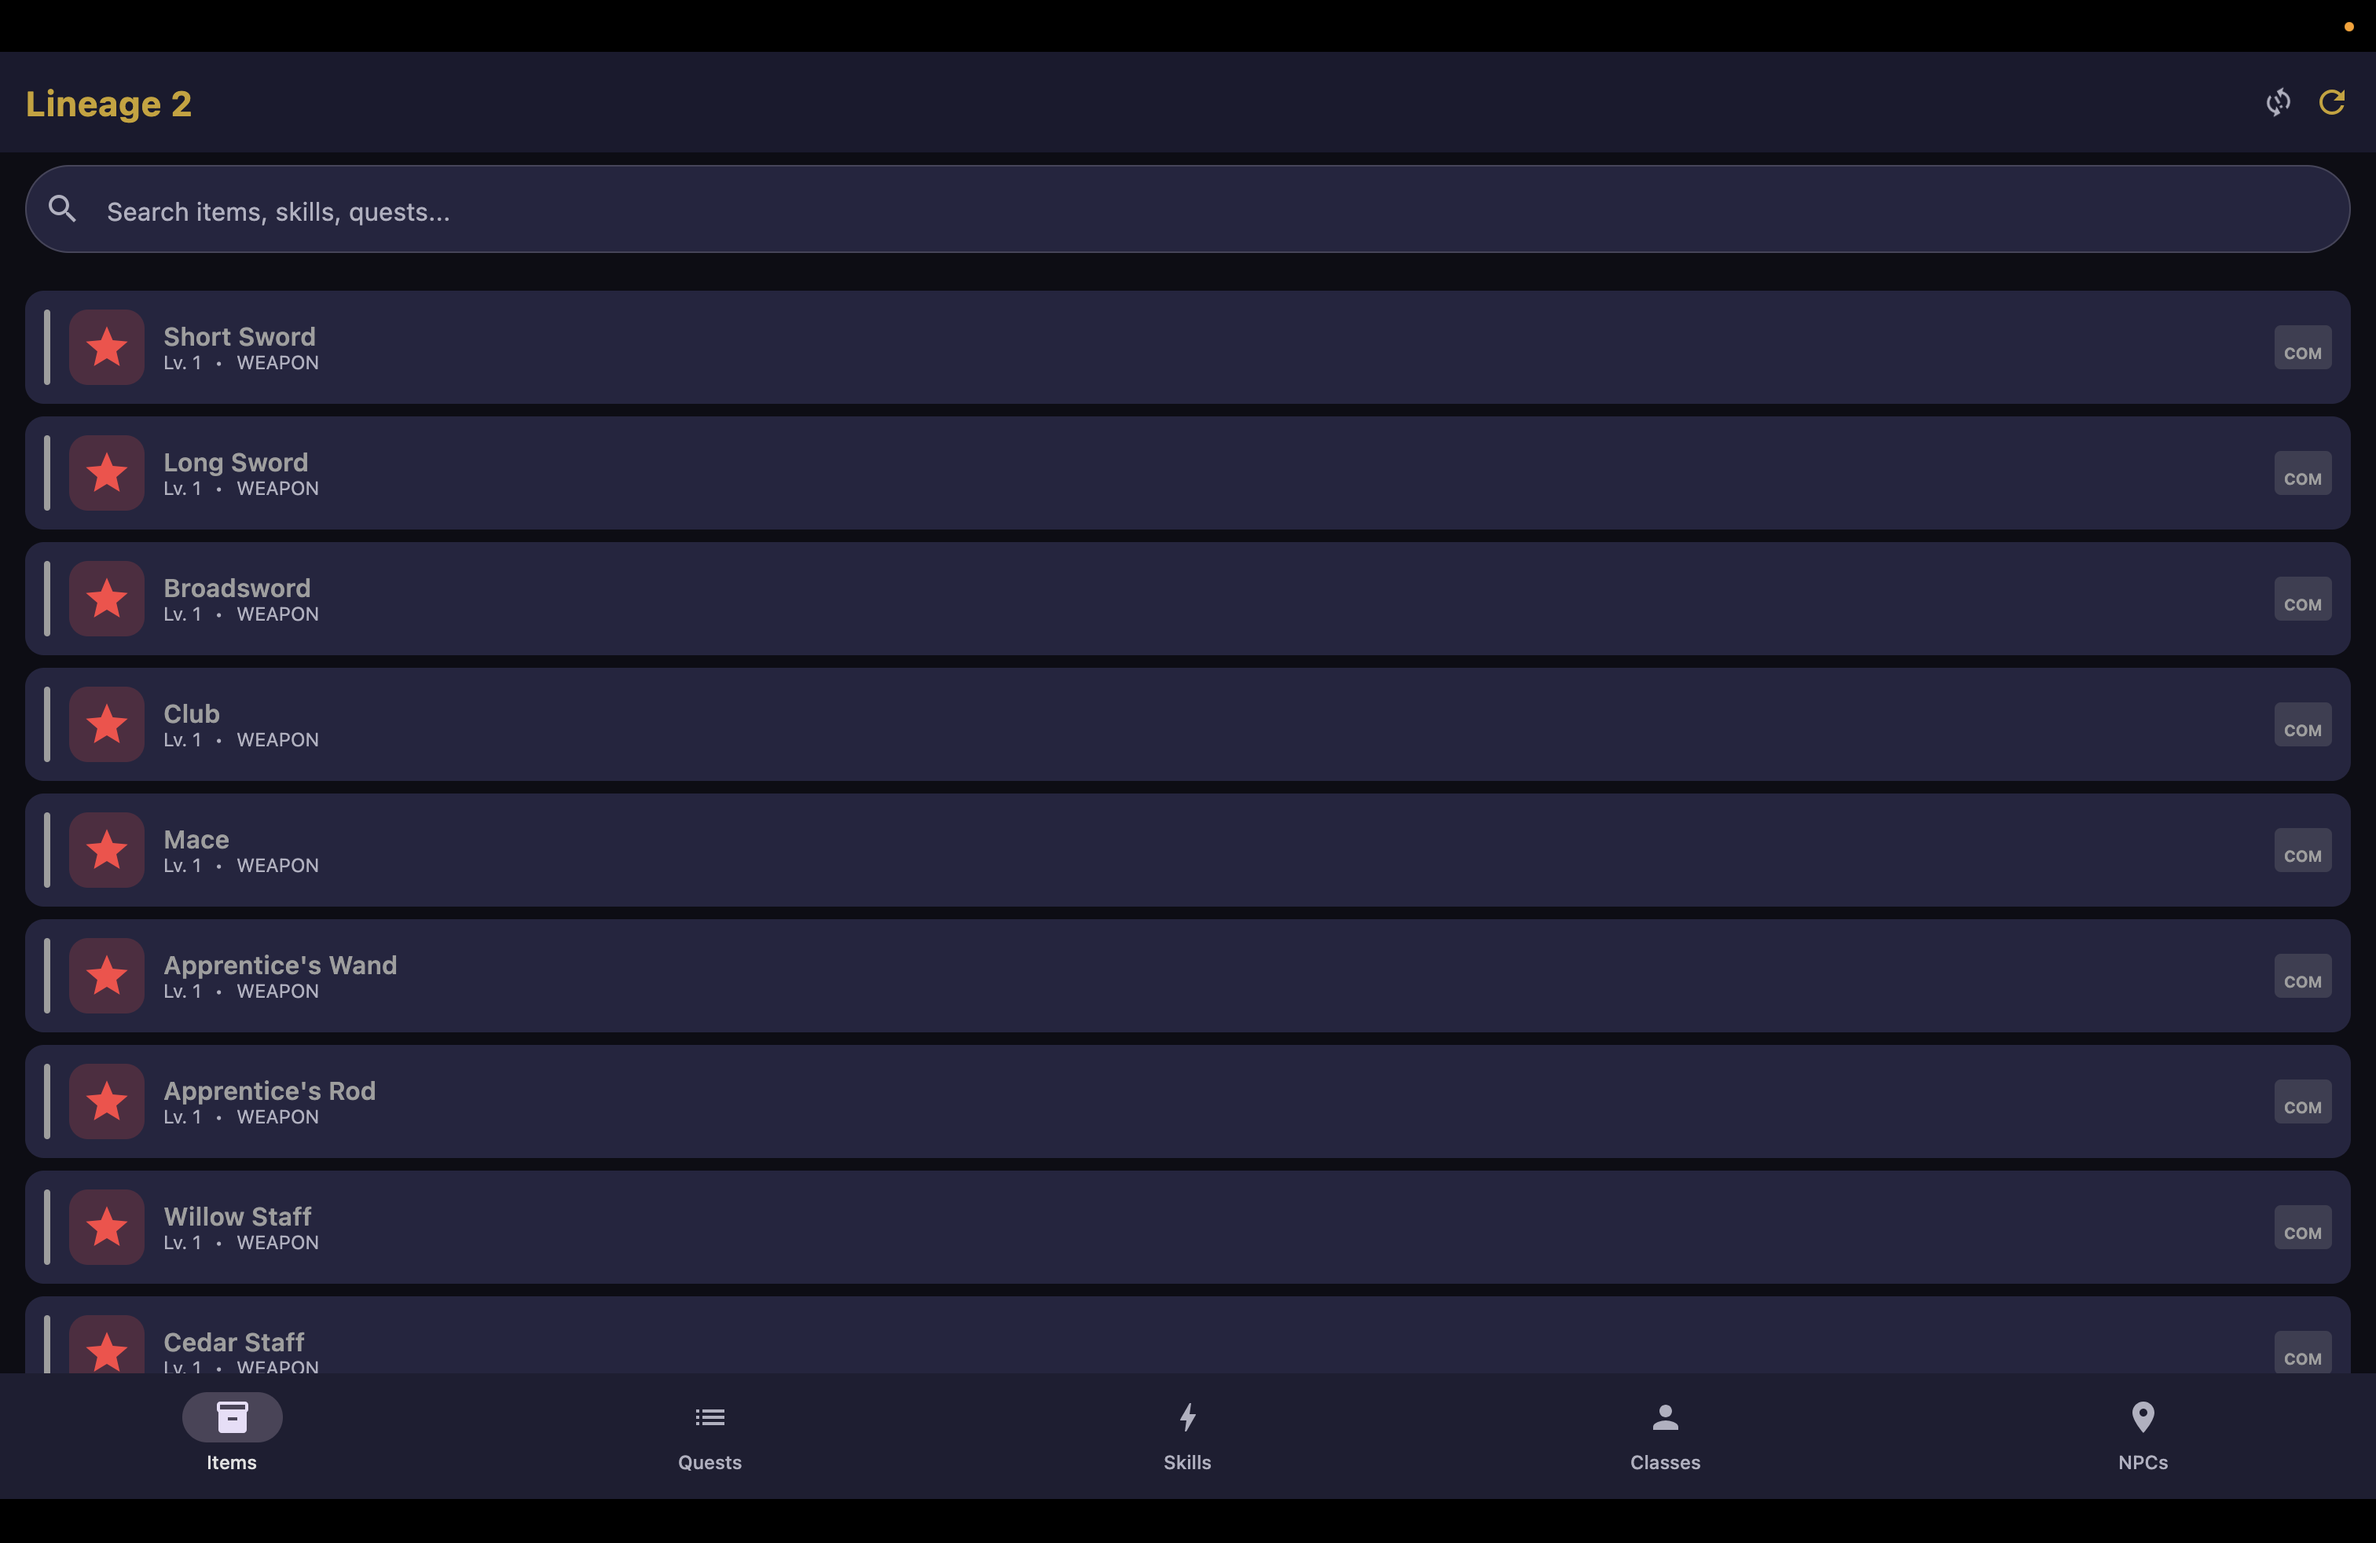
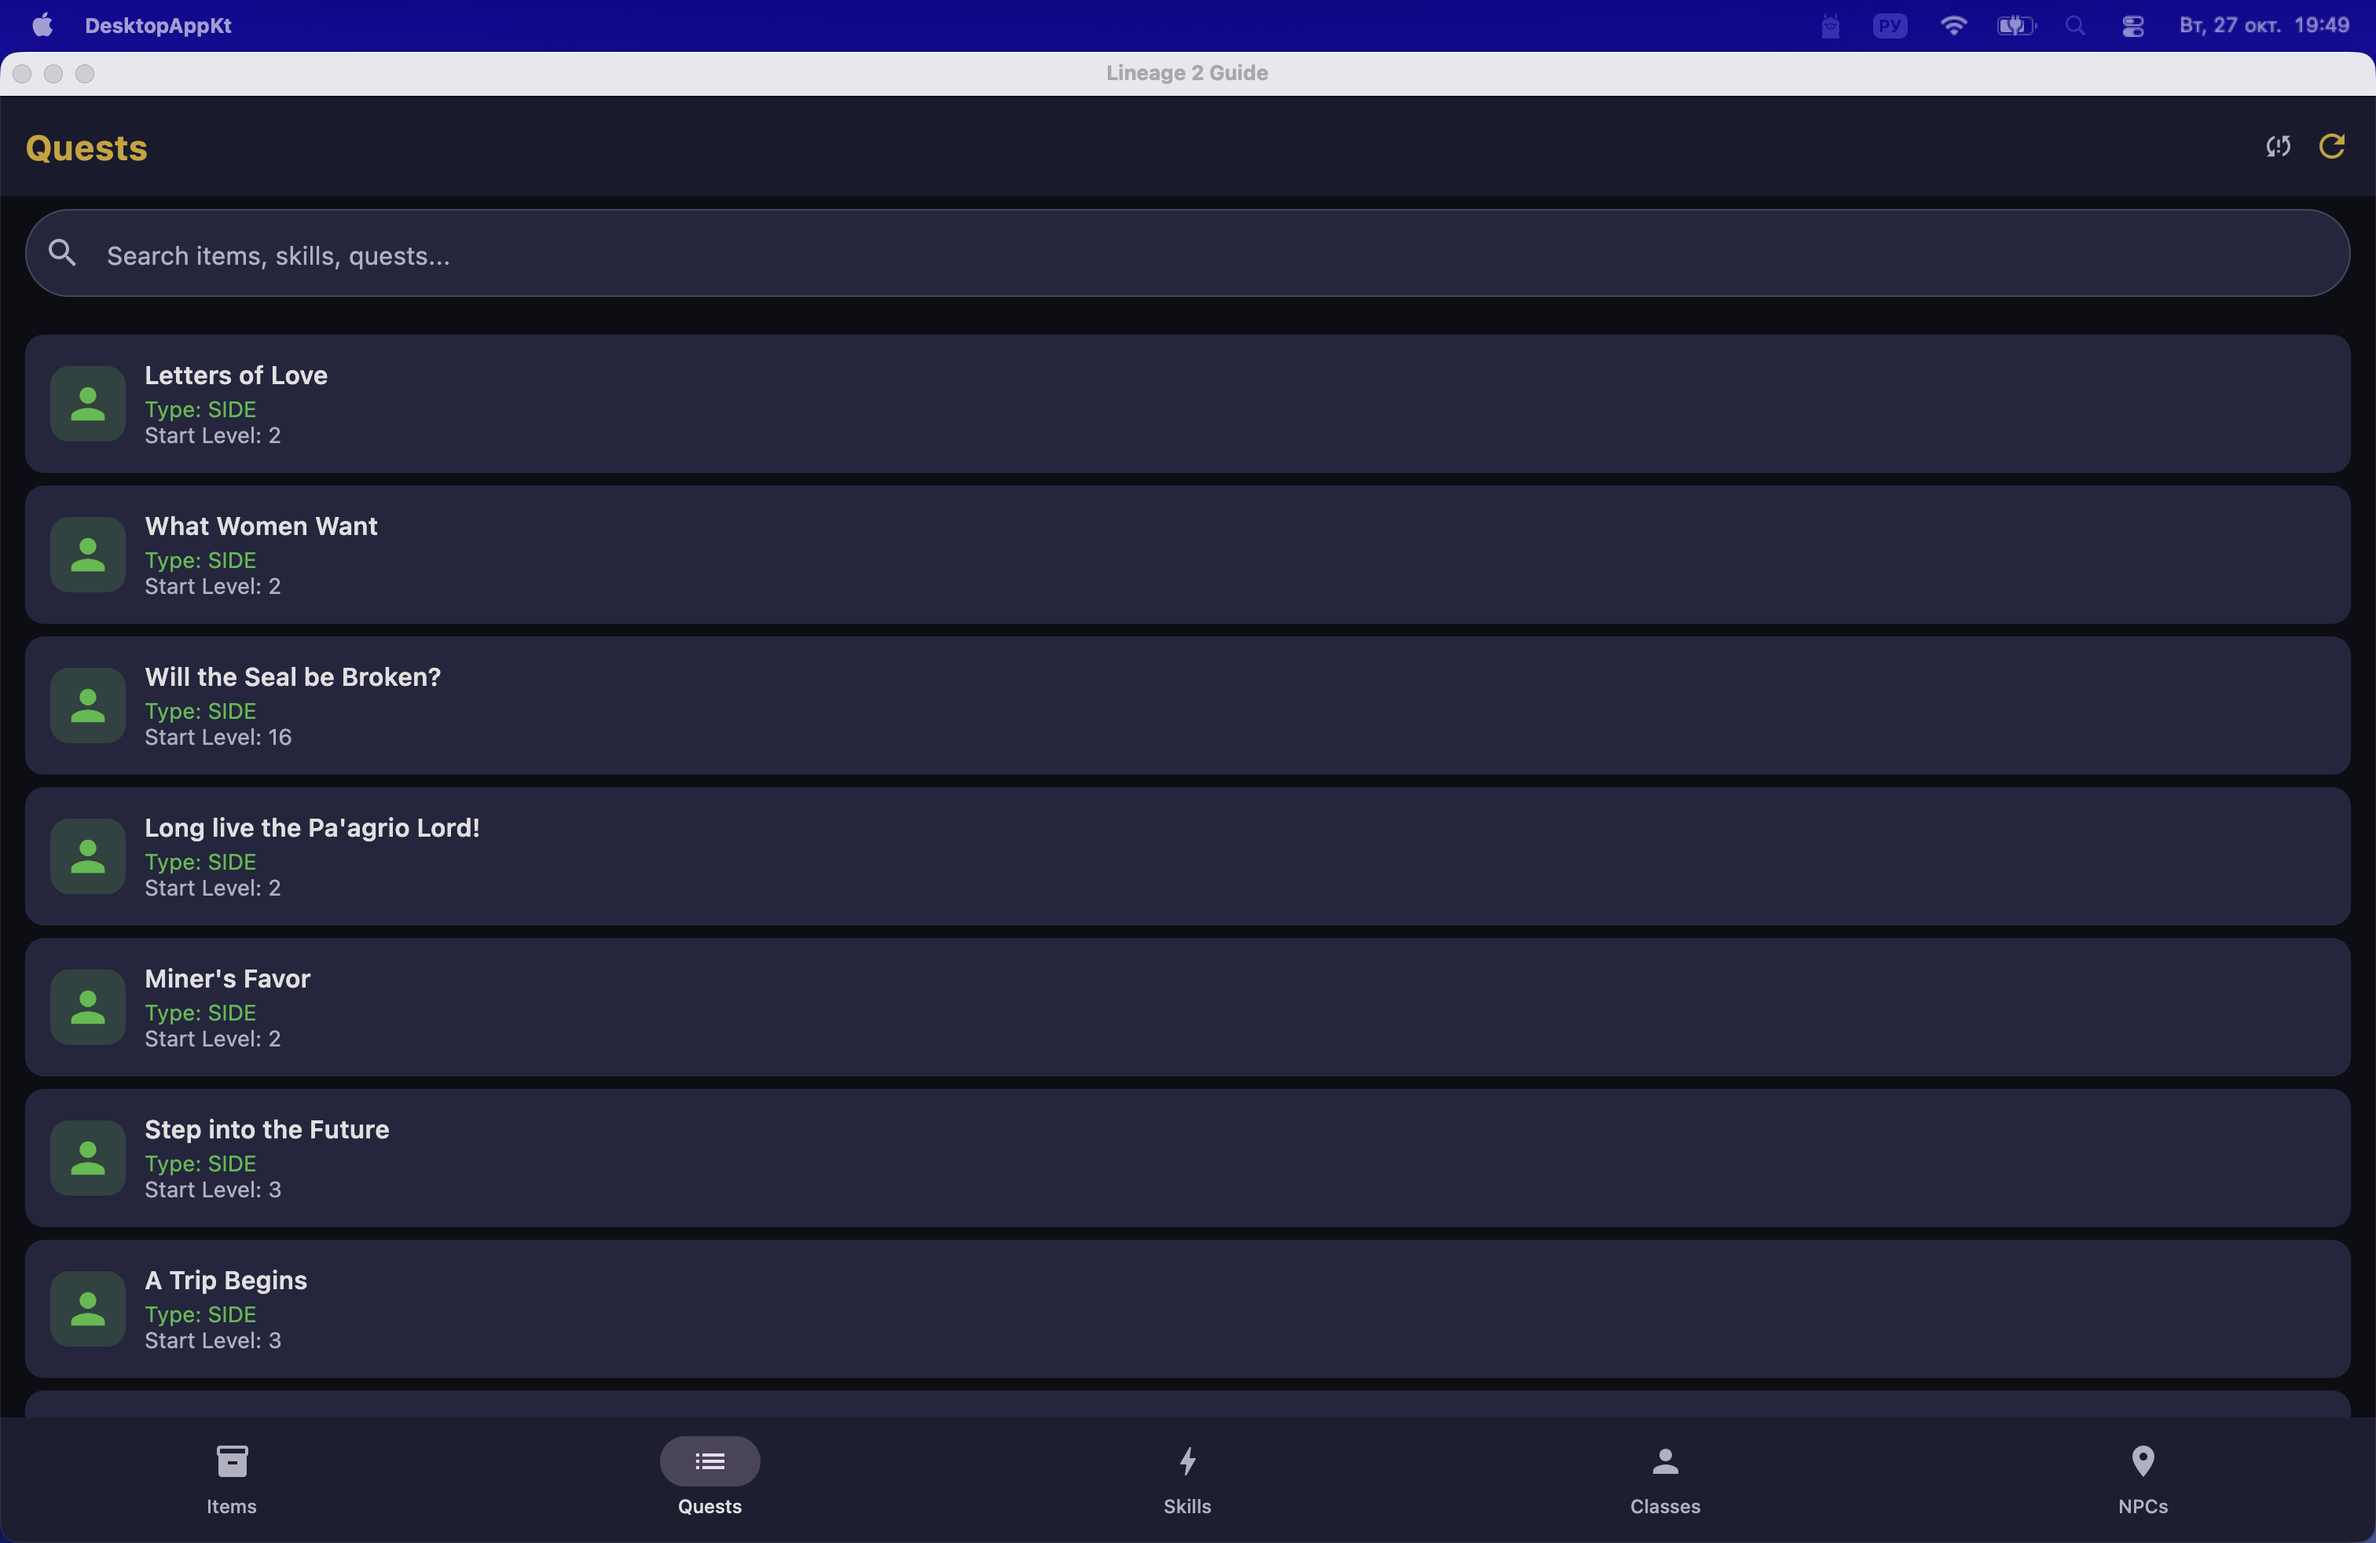
feat: add Quests screenshot to README

diff --git a/README.md b/README.md
@@ -15,6 +15,11 @@ A comprehensive companion guide app for Lineage 2 (Interlude chronicle) with off
   <em>Desktop — Skills with type-based icons</em>
 </p>
 
+<p align="center">
+  <img src="screenshots/desktop_quests.png" width="800" alt="Desktop Quests Screen"/><br/>
+  <em>Desktop — Quests with type-based icons</em>
+</p>
+
 ### Mobile Application
 <p align="center">
   <img src="screenshots/splash0.jpg" width="200" alt="Splash Screen"/>
